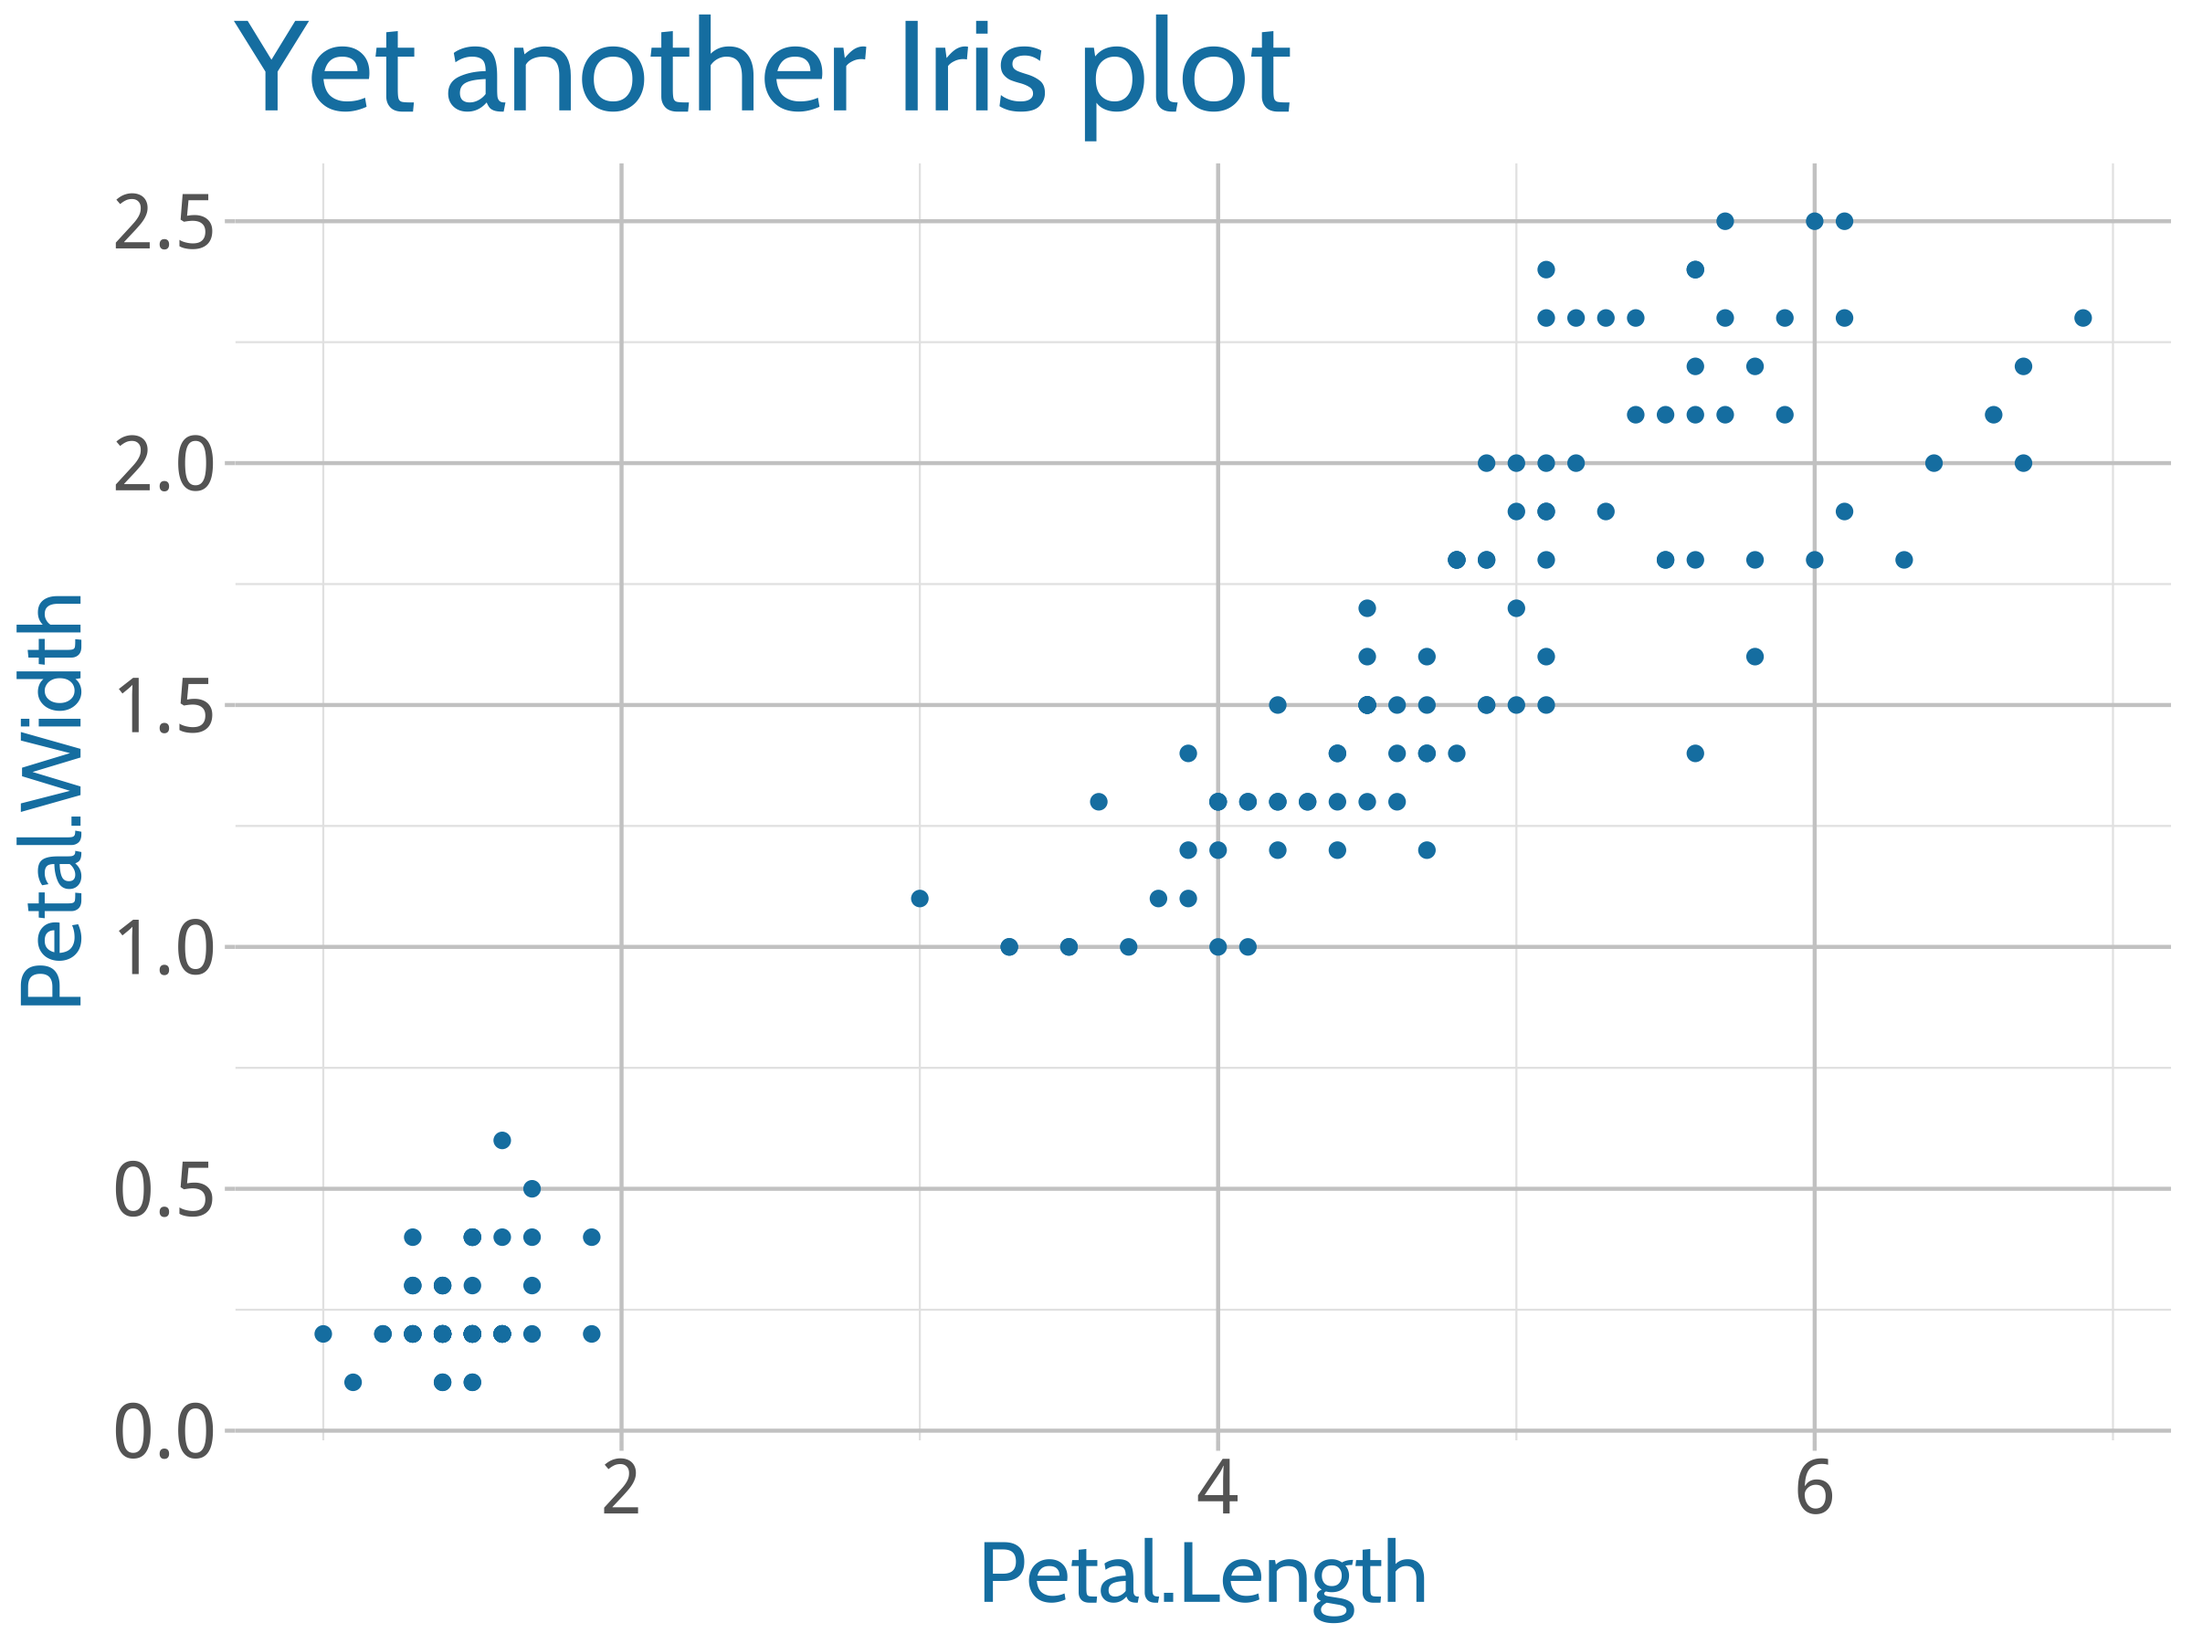
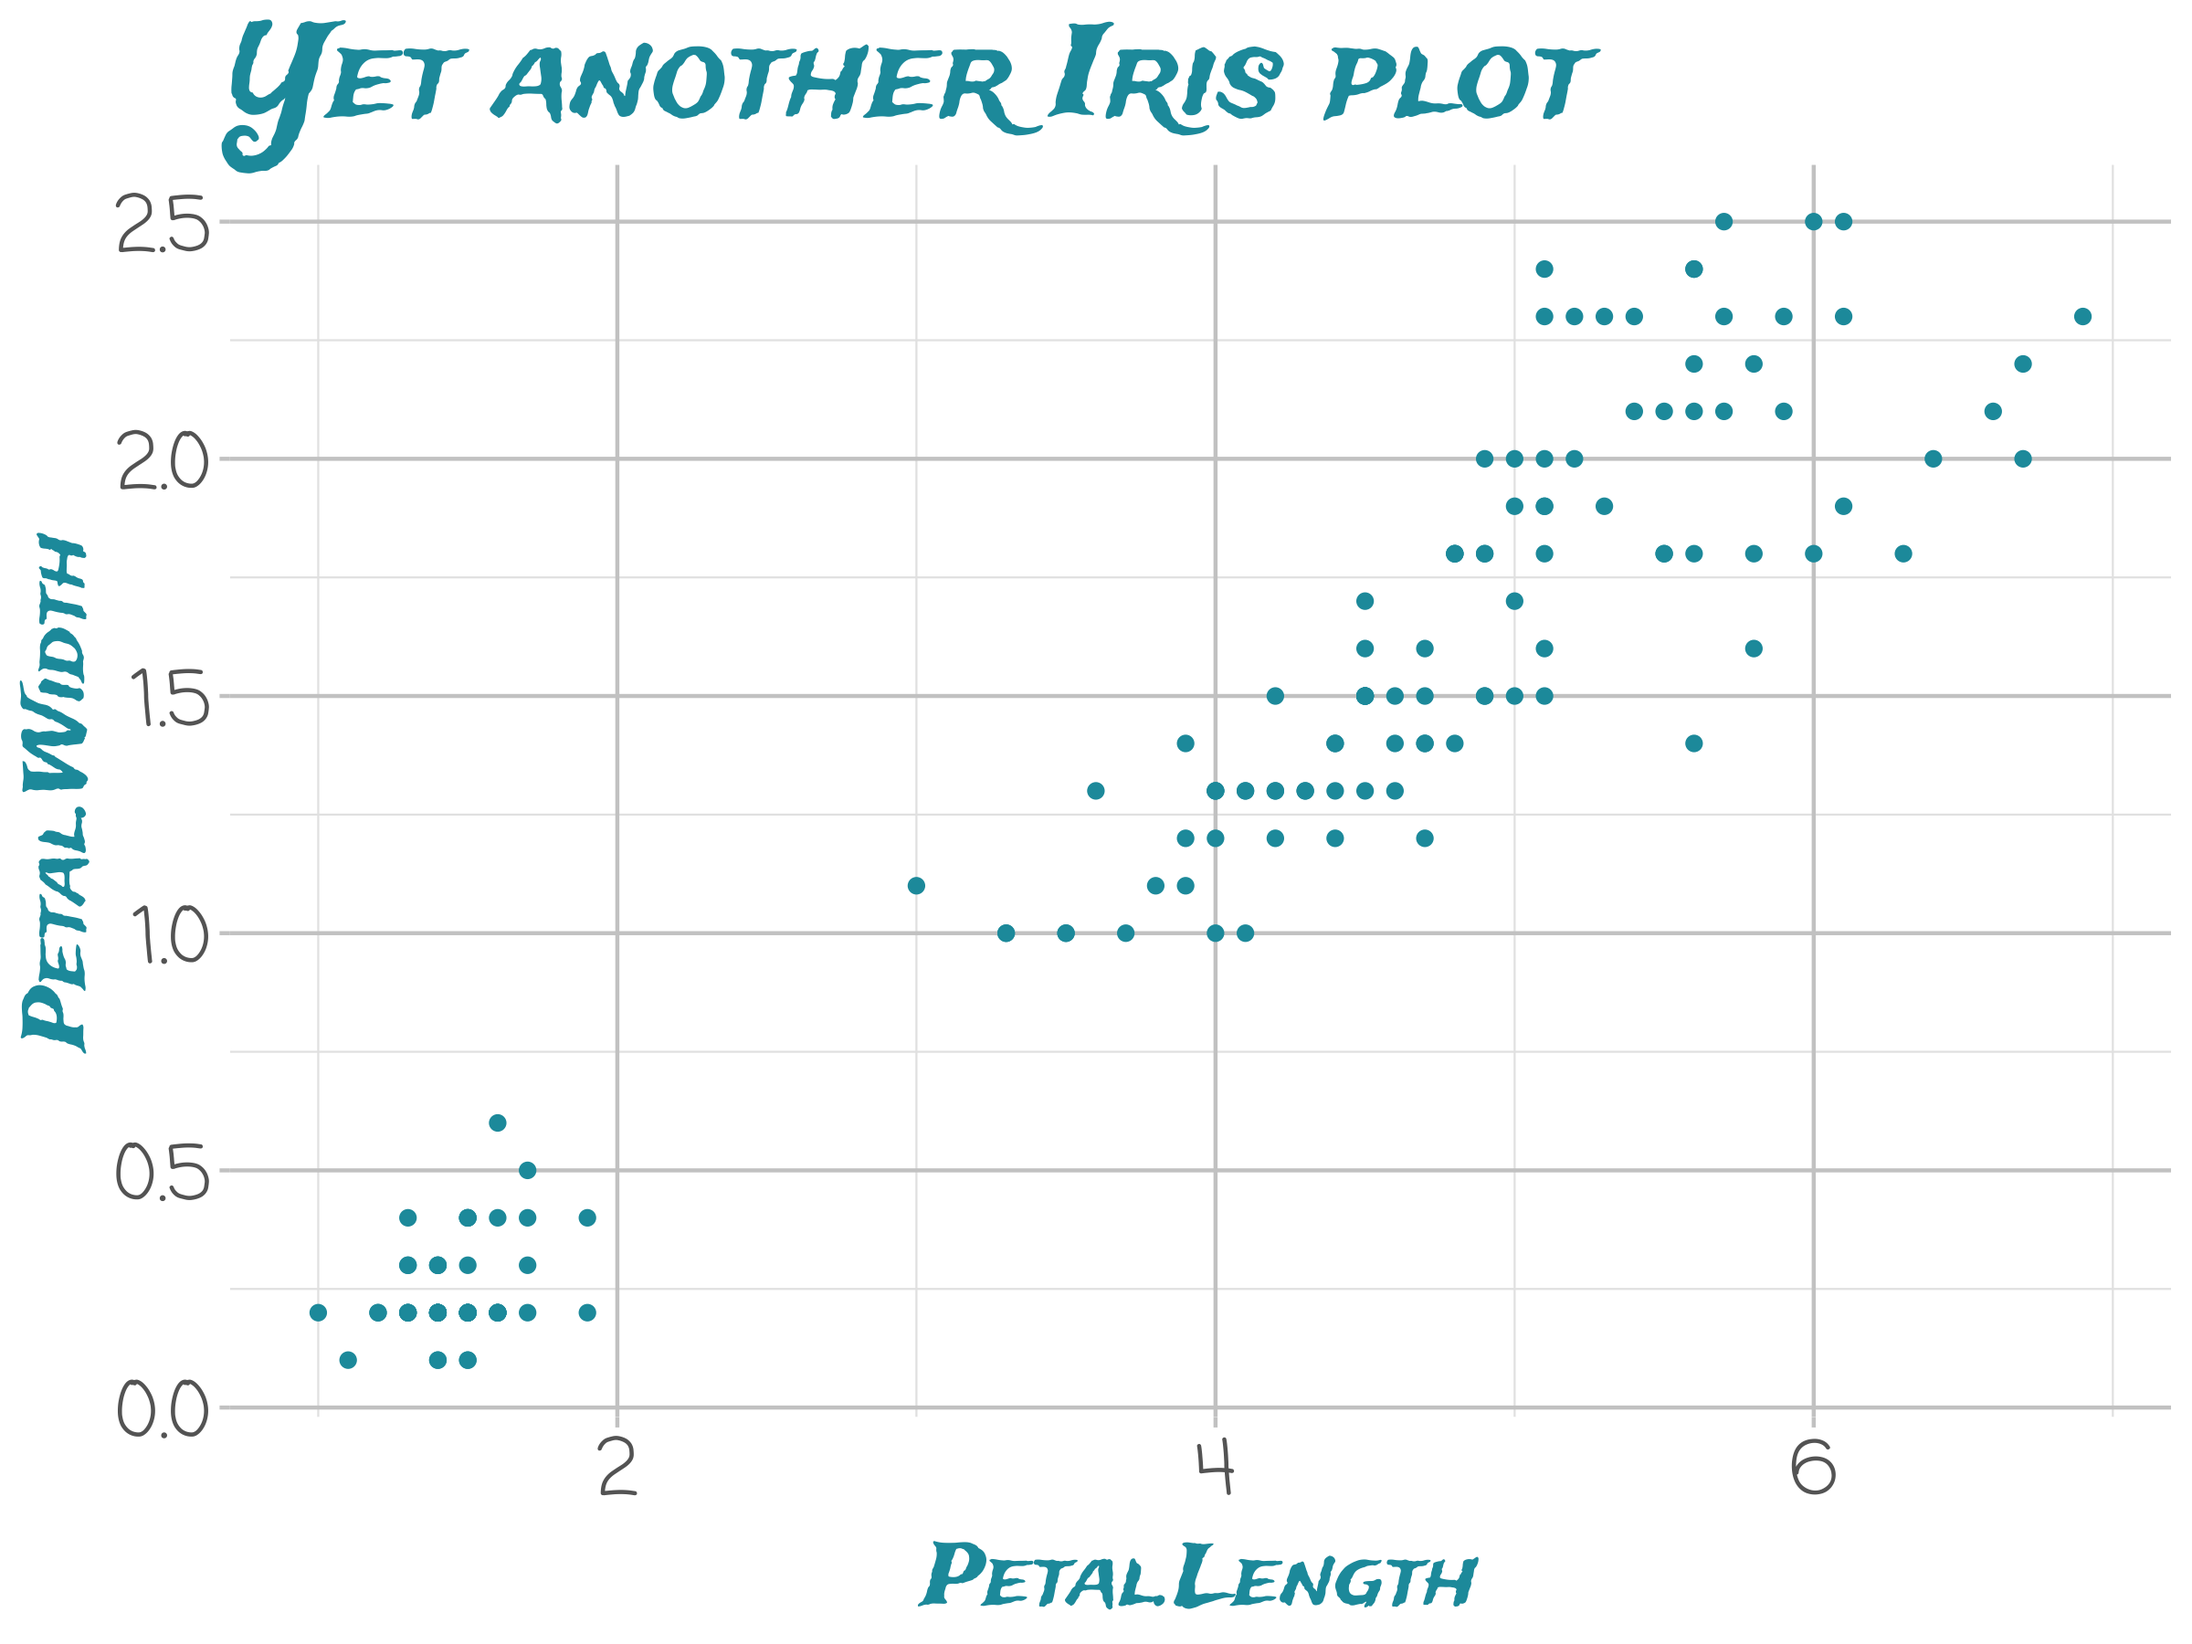
update slides after talk

diff --git a/docs/xaringanthemer/xaringan-themer.css b/docs/xaringanthemer/xaringan-themer.css
@@ -18,18 +18,18 @@
  *  Version: 0.2.0.9100
  *
  * ------------------------------------------------------- */
-@import url(https://fonts.googleapis.com/css?family=Noto+Sans:400,400i,700,700i&display=swap);
-@import url(https://fonts.googleapis.com/css?family=Cabin:600,600i&display=swap);
+@import url(https://fonts.googleapis.com/css?family=Coming+Soon&display=swap);
+@import url(https://fonts.googleapis.com/css?family=Trade+Winds&display=swap);
 @import url(https://fonts.googleapis.com/css?family=Source+Code+Pro:400,700&display=swap);
 
 
 :root {
   /* Fonts */
-  --text-font-family: 'Noto Sans';
+  --text-font-family: 'Coming Soon';
   --text-font-is-google: 1;
   --text-font-family-fallback: -apple-system, BlinkMacSystemFont, avenir next, avenir, helvetica neue, helvetica, Ubuntu, roboto, noto, segoe ui, arial;
   --text-font-base: sans-serif;
-  --header-font-family: Cabin;
+  --header-font-family: 'Trade Winds';
   --header-font-is-google: 1;
   --code-font-family: 'Source Code Pro';
   --code-font-is-google: 1;
@@ -43,17 +43,17 @@
 
   /* Colors */
   --text-color: #000000;
-  --header-color: #1381B0;
+  --header-color: #1b9aaa;
   --background-color: #FFFFFF;
-  --link-color: #1381B0;
-  --text-bold-color: #1381B0;
+  --link-color: #1b9aaa;
+  --text-bold-color: #1b9aaa;
   --code-highlight-color: rgba(255,255,0,0.5);
   --inverse-text-color: #000000;
-  --inverse-background-color: #FF961C;
-  --inverse-header-color: #FFFFFF;
-  --title-slide-background-color: #1381B0;
+  --inverse-background-color: #ffc43d;
+  --inverse-header-color: #000000;
+  --title-slide-background-color: #1b9aaa;
   --title-slide-text-color: #000000;
-  --header-background-color: #1381B0;
+  --header-background-color: #1b9aaa;
   --header-background-text-color: #FFFFFF;
 }
 
@@ -63,7 +63,7 @@ html {
 
 body {
   font-family: var(--text-font-family), var(--text-font-family-fallback), var(--text-font-base);
-  font-weight: normal;
+  font-weight: ;
   color: var(--text-color);
 }
 h1, h2, h3 {
@@ -95,10 +95,10 @@ h1, h2, h3 {
 }
 .remark-inline-code {
   font-size: var(--code-inline-font-size);
-  color: #1381B0;
+  color: #1b9aaa;
 }
 .remark-slide-number {
-  color: #1381B0;
+  color: #1b9aaa;
   opacity: 1;
   font-size: 0.9em;
 }
@@ -140,10 +140,10 @@ a, a > code {
   float: left;
 }
 .left-column h2, .left-column h3 {
-  color: #1381B099;
+  color: #1b9aaa99;
 }
 .left-column h2:last-of-type, .left-column h3:last-child {
-  color: #1381B0;
+  color: #1b9aaa;
 }
 .right-column {
   width: 75%;
@@ -165,7 +165,7 @@ img, video, iframe {
   max-width: 100%;
 }
 blockquote {
-  border-left: solid 5px #FF961C80;
+  border-left: solid 5px #ffc43d80;
   padding-left: 1em;
 }
 .remark-slide table {
@@ -180,7 +180,7 @@ th, td {
   padding: 5px;
 }
 .remark-slide thead, .remark-slide tfoot, .remark-slide tr:nth-child(even) {
-  background: #FFEAD1;
+  background: #FFF3D8;
 }
 table.dataTable tbody {
   background-color: var(--background-color);
@@ -190,7 +190,7 @@ table.dataTable.display tbody tr.odd {
   background-color: var(--background-color);
 }
 table.dataTable.display tbody tr.even {
-  background-color: #FFEAD1;
+  background-color: #FFF3D8;
 }
 table.dataTable.hover tbody tr:hover, table.dataTable.display tbody tr:hover {
   background-color: rgba(255, 255, 255, 0.5);

diff --git a/docs/intro/index.html b/docs/intro/index.html
@@ -227,7 +227,29 @@ background-size: cover
 
 ---
 
-Slides to be generated from [anatomy](anatomy)
+class: hide-count
+background-image: url('anatomy/xaringan-slides-1.jpg')
+background-size: contain
+background-position: top left
+
+---
+class: hide-count
+background-image: url('anatomy/xaringan-slides-2.jpg')
+background-size: contain
+background-position: top left
+
+---
+class: hide-count
+background-image: url('anatomy/xaringan-slides-3.jpg')
+background-size: contain
+background-position: top left
+
+---
+class: hide-count
+background-image: url('anatomy/xaringan-slides-4.jpg')
+background-size: contain
+background-position: top left
+
 
 ---
 class: middle right
@@ -521,6 +543,10 @@ And hey, there's a &amp;#x1F37A; over &amp;#x1F449;
 &lt;img src="beer.jpg" width="60%" class="center" /&gt;
 ]
 
+???
+
+Think of something _extra_ **witty** to say about beers.
+
 ---
 
 .code.light-silver[
@@ -599,7 +625,7 @@ output:
     nature:
       highlightStyle: github
       highlightLines: true
-      countIncrementalSlides: false
+      countIncrementalSlides: true
       slideNumberFormat: "%current%"
       ratio: 16:9
 ```
@@ -620,7 +646,7 @@ output:
     nature:
       highlightStyle: github
       highlightLines: true
-      countIncrementalSlides: false
+      countIncrementalSlides: true
       slideNumberFormat: "%current%"
       ratio: 16:9
 ```
@@ -647,7 +673,7 @@ output:
     nature:
       highlightStyle: github
       highlightLines: true
-      countIncrementalSlides: false
+      countIncrementalSlides: true
       slideNumberFormat: "%current%"
       ratio: 16:9
 ```
@@ -674,7 +700,7 @@ output:
     nature:
       highlightStyle: github
       highlightLines: true
-      countIncrementalSlides: false
+      countIncrementalSlides: true
       slideNumberFormat: "%current%"
       ratio: 16:9
 ```
@@ -697,7 +723,7 @@ output:
     nature:
 *     highlightStyle: github
       highlightLines: true
-      countIncrementalSlides: false
+      countIncrementalSlides: true
       slideNumberFormat: "%current%"
       ratio: 16:9
 ```
@@ -722,7 +748,7 @@ output:
     nature:
       highlightStyle: github
 *     highlightLines: true
-      countIncrementalSlides: false
+      countIncrementalSlides: true
       slideNumberFormat: "%current%"
       ratio: 16:9
 ```
@@ -749,7 +775,7 @@ output:
     nature:
       highlightStyle: github
       highlightLines: true
-*     countIncrementalSlides: false
+*     countIncrementalSlides: true
 *     slideNumberFormat: "%current%"
       ratio: 16:9
 ```
@@ -772,7 +798,7 @@ output:
     nature:
       highlightStyle: github
       highlightLines: true
-      countIncrementalSlides: false
+      countIncrementalSlides: true
       slideNumberFormat: "%current%"
 *     ratio: 16:9
 ```
@@ -812,7 +838,7 @@ class: center middle inverse
 <script>var slideshow = remark.create({
 "highlightStyle": "github",
 "highlightLines": true,
-"countIncrementalSlides": false,
+"countIncrementalSlides": true,
 "ratio": "16:9",
 "slideNumberFormat": "%current%"
 });

diff --git a/docs/xaringanthemer/index.html b/docs/xaringanthemer/index.html
@@ -31,11 +31,34 @@ class: center, middle
 
 
 
-
-
 # xaringanthemer
 
 ### pkg.garrickadenbuie.com/xaringanthemer/dev
+
+---
+class: middle
+
+### Install xaringanthemer
+
+
+```r
+devtools::install_github("gadenbuie/xaringanthemer@dev")
+```
+
+.silver[Install from .code[dev] branch!]
+
+### Create our slide's theme
+
+
+```r
+library(xaringanthemer)
+style_duo_accent(
+  primary_color = "#1b9aaa",
+  secondary_color = "#ffc43d",
+  text_font_google = google_font("Coming Soon"),  #&lt;&lt; this is crazy but okay
+  header_font_google = google_font("Trade Winds") #&lt;&lt; very on brand for Tampa
+)
+```
 
 ---
 
@@ -168,7 +191,7 @@ ggplot(iris) +
 ---
 class: inverse
 
-# Themed plot
+# Inverse Themed plot
 
 .pull-left[
 
@@ -272,8 +295,8 @@ DT::datatable(
 )
 ```
 
-<div id="htmlwidget-cde71597c75d5458e5ca" style="width:100%;height:auto;" class="datatables html-widget"></div>
-<script type="application/json" data-for="htmlwidget-cde71597c75d5458e5ca">{"x":{"filter":"none","fillContainer":false,"data":[["1","2","3","4","5","6","7","8","9","10"],[5.1,4.9,4.7,4.6,5,5.4,4.6,5,4.4,4.9],[3.5,3,3.2,3.1,3.6,3.9,3.4,3.4,2.9,3.1],[1.4,1.4,1.3,1.5,1.4,1.7,1.4,1.5,1.4,1.5],[0.2,0.2,0.2,0.2,0.2,0.4,0.3,0.2,0.2,0.1],["setosa","setosa","setosa","setosa","setosa","setosa","setosa","setosa","setosa","setosa"]],"container":"<table class=\"display\">\n  <thead>\n    <tr>\n      <th> <\/th>\n      <th>Sepal.Length<\/th>\n      <th>Sepal.Width<\/th>\n      <th>Petal.Length<\/th>\n      <th>Petal.Width<\/th>\n      <th>Species<\/th>\n    <\/tr>\n  <\/thead>\n<\/table>","options":{"pageLength":8,"columnDefs":[{"className":"dt-right","targets":[1,2,3,4]},{"orderable":false,"targets":0}],"order":[],"autoWidth":false,"orderClasses":false,"lengthMenu":[8,10,25,50,100]}},"evals":[],"jsHooks":[]}</script>
+<div id="htmlwidget-7c04b5b4be27fab2dd5a" style="width:100%;height:auto;" class="datatables html-widget"></div>
+<script type="application/json" data-for="htmlwidget-7c04b5b4be27fab2dd5a">{"x":{"filter":"none","fillContainer":false,"data":[["1","2","3","4","5","6","7","8","9","10"],[5.1,4.9,4.7,4.6,5,5.4,4.6,5,4.4,4.9],[3.5,3,3.2,3.1,3.6,3.9,3.4,3.4,2.9,3.1],[1.4,1.4,1.3,1.5,1.4,1.7,1.4,1.5,1.4,1.5],[0.2,0.2,0.2,0.2,0.2,0.4,0.3,0.2,0.2,0.1],["setosa","setosa","setosa","setosa","setosa","setosa","setosa","setosa","setosa","setosa"]],"container":"<table class=\"display\">\n  <thead>\n    <tr>\n      <th> <\/th>\n      <th>Sepal.Length<\/th>\n      <th>Sepal.Width<\/th>\n      <th>Petal.Length<\/th>\n      <th>Petal.Width<\/th>\n      <th>Species<\/th>\n    <\/tr>\n  <\/thead>\n<\/table>","options":{"pageLength":8,"columnDefs":[{"className":"dt-right","targets":[1,2,3,4]},{"orderable":false,"targets":0}],"order":[],"autoWidth":false,"orderClasses":false,"lengthMenu":[8,10,25,50,100]}},"evals":[],"jsHooks":[]}</script>
 
 ---
 
